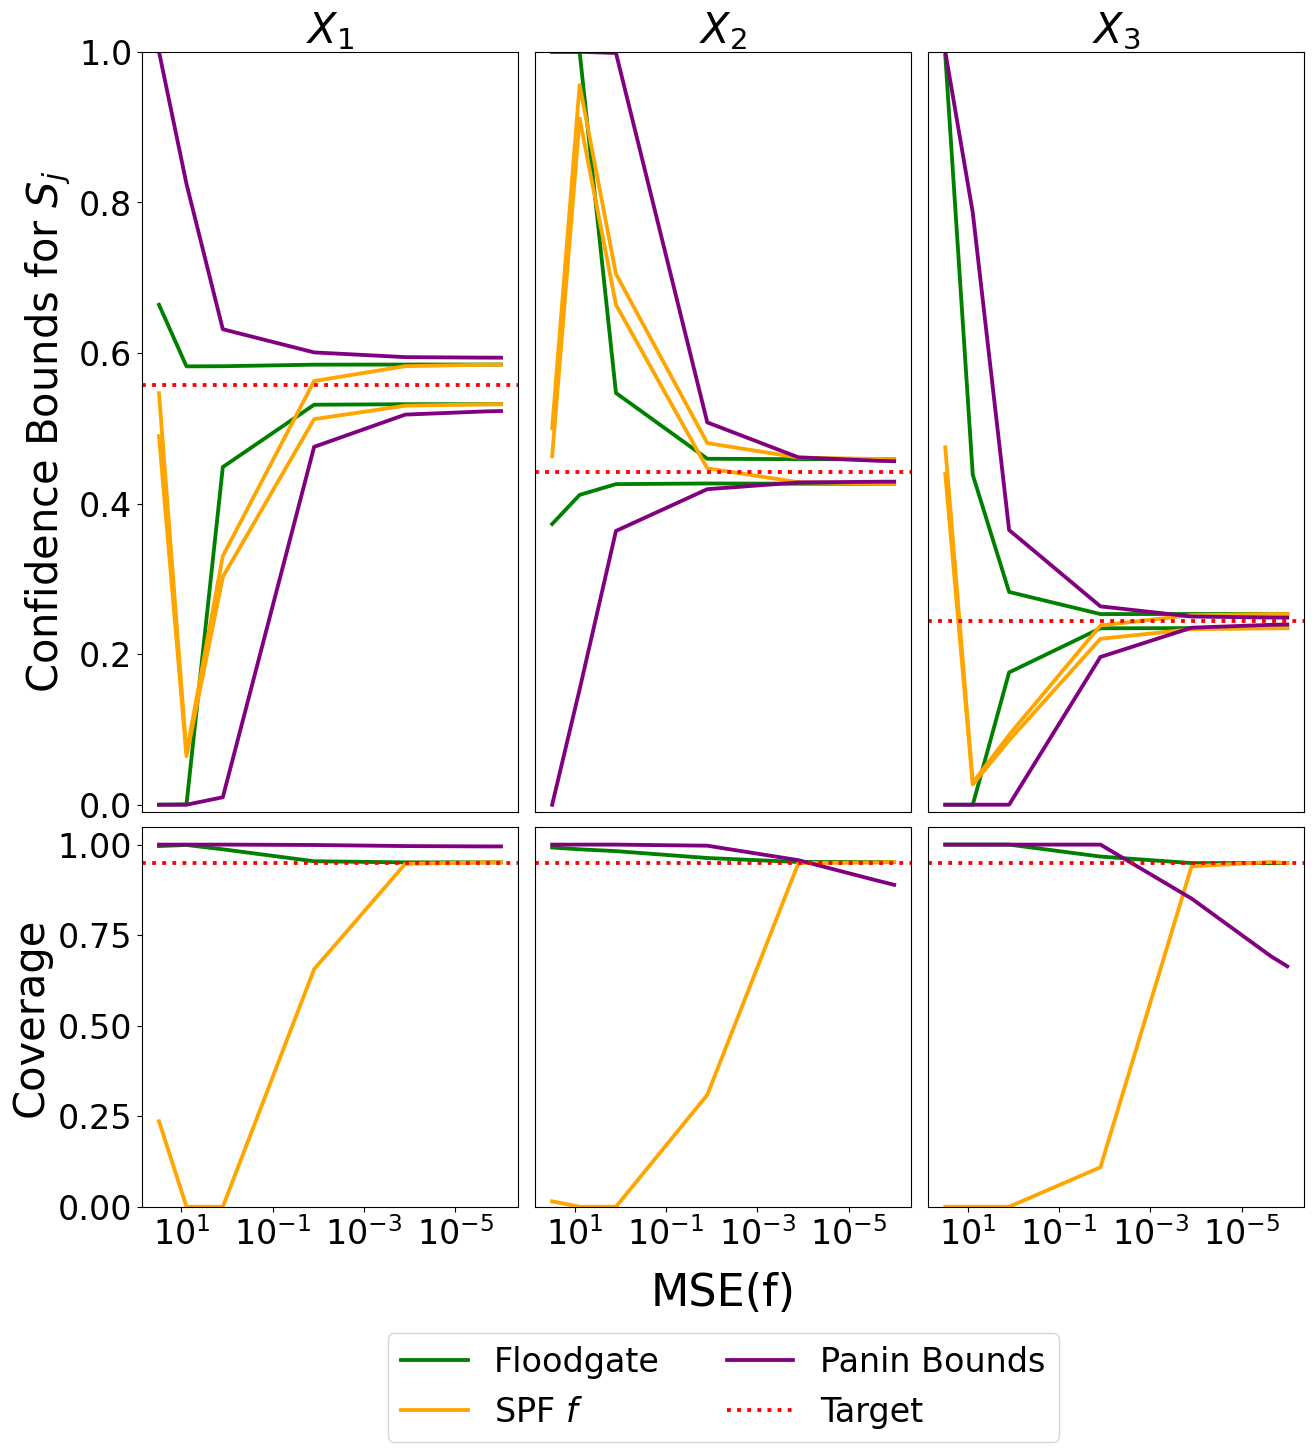
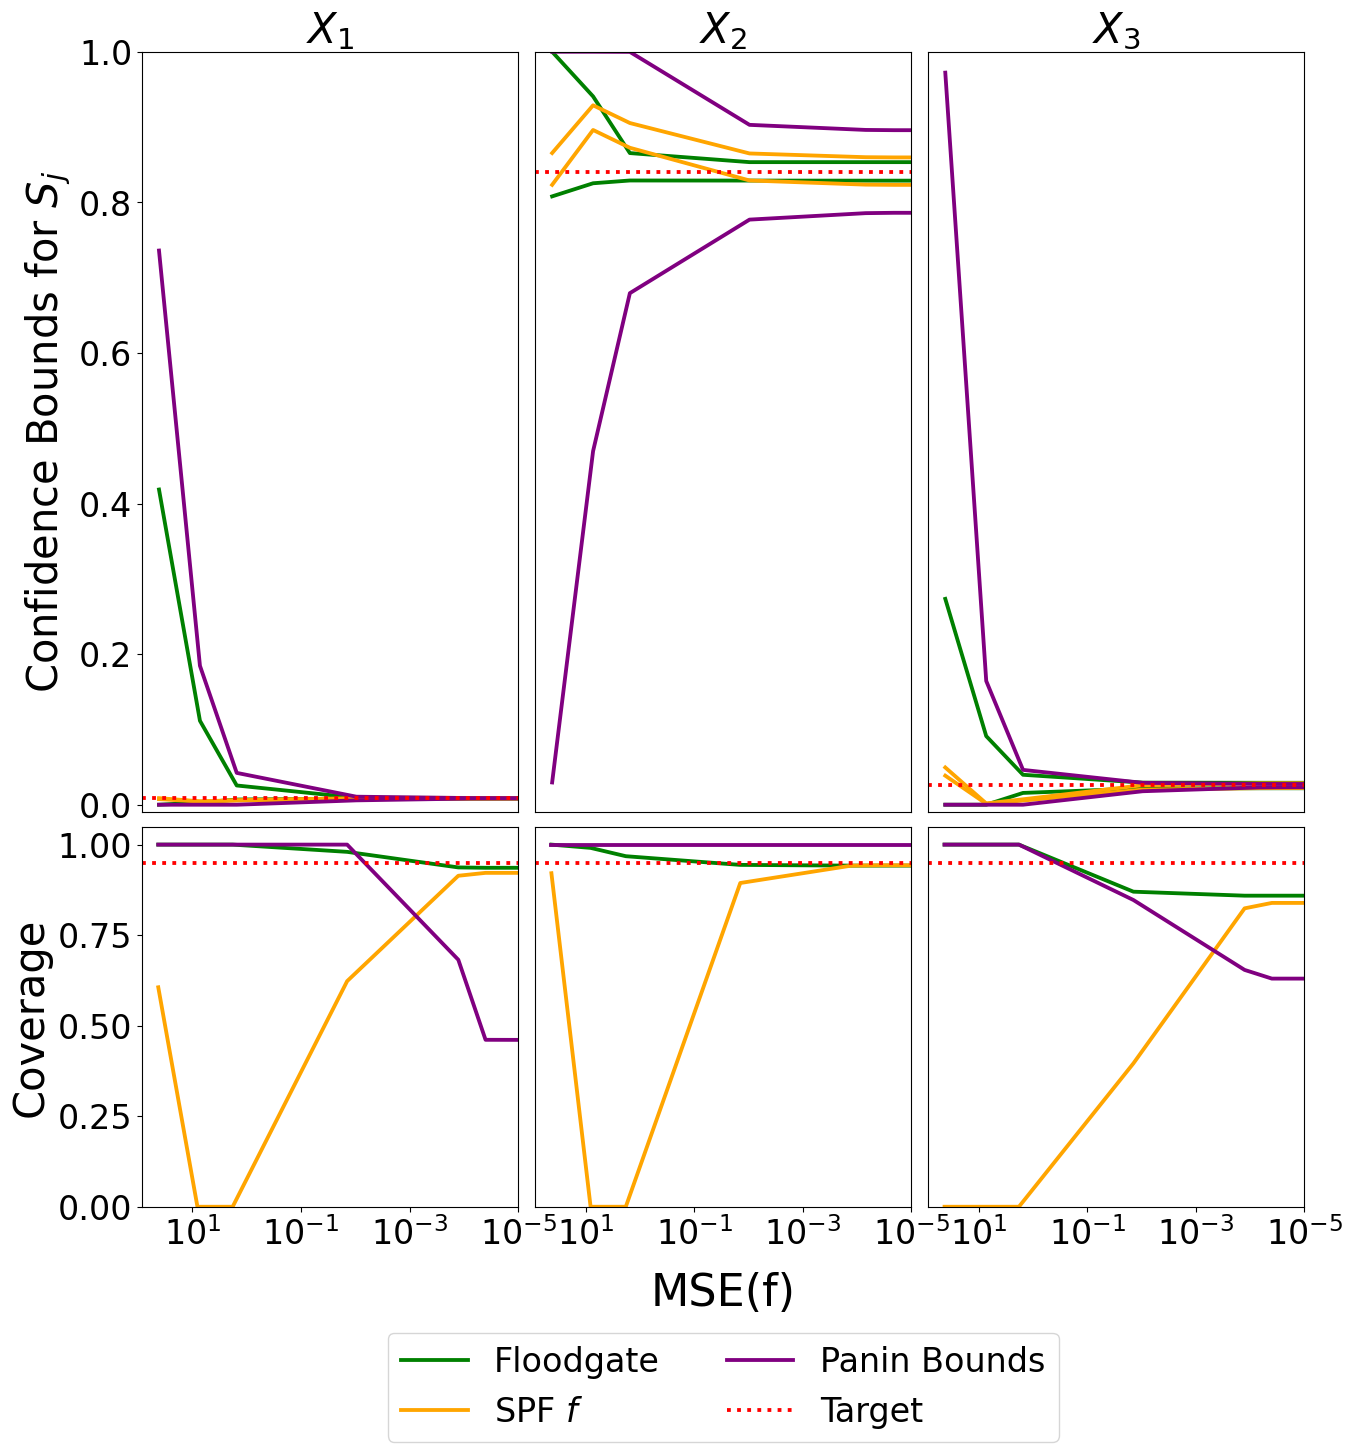
experiment with dependent inputs

diff --git a/ishigami/analysis/surrogate_methods.py b/ishigami/analysis/surrogate_methods.py
@@ -1,7 +1,6 @@
 import argparse
 import os
 from pathlib import Path
-from time import time
 
 import numpy as np
 
@@ -10,7 +9,7 @@ from src.surrogate import Ishigami
 
 from config import Random_seeds, Ishigami_inputs
 
-N = int(1e4)
+N = int(1e5)
 xmin = Ishigami_inputs["min"]
 xmax = Ishigami_inputs["max"]
 d = xmax.shape[0]
@@ -18,18 +17,29 @@ d = xmax.shape[0]
 DATA_DIR = Path(__file__).parents[1] / "data"
 OUTPUT_DIR = DATA_DIR / "analysis"
 
+mu = np.array([0, 0, 0])
+Sigma = np.array([[1, 0.3, 0.8], [0.3, 1, 0.5], [0.8, 0.5, 1]])
 
-def analytical_mse(a, b, c):
-    a_diff = a - 1
-    b_diff = b - 7
-    c_diff = c - 0.1
-    unnormalized = (
-        4 * (a_diff ** 2) * (np.pi ** 3) +
-        (4 / 9) * (c_diff ** 2) * (np.pi ** 11) +
-        (8 / 5) * a_diff * c_diff * (np.pi ** 7) +
-        3 * (b_diff ** 2) * (np.pi ** 3)
-    )
-    return unnormalized / ((2 * np.pi) ** 3)
+
+def _create_input_sample(n):
+    return np.random.multivariate_normal(mu, Sigma, n)
+
+
+def analytical_mse(fstar, f):
+    # a_diff = a - 1
+    # b_diff = b - 7
+    # c_diff = c - 0.1
+    # unnormalized = (
+    #     4 * (a_diff ** 2) * (np.pi ** 3) +
+    #     (4 / 9) * (c_diff ** 2) * (np.pi ** 11) +
+    #     (8 / 5) * a_diff * c_diff * (np.pi ** 7) +
+    #     3 * (b_diff ** 2) * (np.pi ** 3)
+    # )
+    # return unnormalized / ((2 * np.pi) ** 3)
+    X = _create_input_sample(10000)
+    y = fstar.predict(X)
+    y_hat = f.predict(X)
+    return np.mean((y - y_hat) ** 2)
 
 
 if __name__ == "__main__":
@@ -60,9 +70,12 @@ if __name__ == "__main__":
     fstar = Ishigami()
     f = Ishigami(1 + noise, 7 + 2 * noise, 0.1 - 0.5 * noise)
 
-    print(f"MSE: {analytical_mse(f.a, f.b, f.c):.5f}")
+    print(f"noise: {noise}, MSE: {analytical_mse(fstar, f):.5f}")
 
     for i in range(1000):
+        if i % 100 == 0:
+            print(f"noise: {noise}, iteration: {i}")
+
         data_path = DATA_DIR / "outputs" / f"{i}.npy"
         os.makedirs(data_path.parent, exist_ok=True)
         if os.path.exists(data_path):
@@ -71,8 +84,7 @@ if __name__ == "__main__":
             y = data[:, -1]
         else:
             np.random.seed(Random_seeds["Ishigami_inputs"] + i)
-            X = np.random.rand(N, d) @ np.diag(xmax - xmin) + np.ones((N, d)) @ np.diag(xmin)
-            t1 = time()
+            X = _create_input_sample(N)
             y = fstar.predict(X)
 
             if args.save_data:
@@ -80,9 +92,8 @@ if __name__ == "__main__":
 
         np.random.seed(Random_seeds["Ishigami_analysis"] + i)
 
-        t1 = time()
         floodgate_results, spf_results, panin_results = combined_surrogate_methods(
-            X, f, xmin, xmax, Y=y, K=1
+            X, f, mu, Sigma, Y=y, K=100
         )
 
         np.save(FLOODGATE_OUTPUT_DIR / f"{i}.npy", np.array(floodgate_results))

diff --git a/plotting_scripts/Ishigami.py b/plotting_scripts/Ishigami.py
@@ -5,6 +5,8 @@ from matplotlib import pyplot as plt
 import os
 
 from ishigami.analysis.surrogate_methods import analytical_mse
+from src.analytical import S1, S2, S3, VAR_F
+from src.surrogate import Ishigami
 
 FIG_DIR = Path(__file__).parents[1] / "figs"
 DATA_DIR = Path(__file__).parents[1] / "ishigami" / "data" / "analysis"
@@ -13,7 +15,7 @@ if not os.path.exists(FIG_DIR):
     os.mkdir(FIG_DIR)
 
 d = 3
-gt = np.array([0.5574, 0.4424, 0.2436])
+gt = np.array([S1, S2, S3])
 
 
 # Plot formatting
@@ -40,28 +42,7 @@ floodgate = []
 panin = []
 spf_surrogate = []
 
-noise_vals = ["0.5", "0.25", "0.1", "0.01", "0.001", "0.0001", "0.0"]
-
-# Floodgate
-for s in noise_vals:
-    data_dir = DATA_DIR / "floodgate" / s
-    floodgate.append(
-        [np.load(data_dir / fp) for fp in os.listdir(data_dir)]
-    )
-floodgate = np.array(floodgate)
-floodgate_mean = np.mean(floodgate, axis=1)
-floodgate_cov = np.mean((floodgate[:,:,:,0] < gt) * (floodgate[:,:,:,1] > gt), axis=1)
-
-
-mse_vals = [
-    analytical_mse(1 + float(n), 7 + 2 * float(n), 0.1 - 0.5 * float(n)) + 1e-6 for n in noise_vals
-]
-
-for i in range(d):
-    ax[0,i].plot(mse_vals, floodgate_mean[:,i,0], color="green", ls="-", lw=lw, label="Floodgate")
-    ax[0,i].plot(mse_vals, floodgate_mean[:,i,1], color="green", ls="-", lw=lw)
-    ax[1,i].plot(mse_vals, floodgate_cov[:,i], color="green", ls="-", lw=lw)
-
+noise_vals = ["0.5", "0.25", "0.1", "0.01", "0.001", "0.0005", "0.0"]
 
 # Surrogate SPF
 for s in noise_vals:
@@ -72,6 +53,35 @@ for s in noise_vals:
 spf_surrogate = np.array(spf_surrogate)
 spf_surrogate_mean = np.mean(spf_surrogate, axis=1)
 spf_surrogate_cov = np.mean((spf_surrogate[:,:,:,0] < gt) * (spf_surrogate[:,:,:,1] > gt), axis=1)
+
+# Floodgate
+for s in noise_vals:
+    data_dir = DATA_DIR / "floodgate" / s
+    floodgate.append(
+        [np.load(data_dir / fp) for fp in os.listdir(data_dir)]
+    )
+
+floodgate = np.array(floodgate)
+floodgate_mean = np.mean(floodgate, axis=1)
+floodgate_cov = np.mean((floodgate[:,:,:,0] < gt) * (floodgate[:,:,:,1] > gt), axis=1)
+# print(np.mean(floodgate[:,:,:,0] < gt, axis=1))
+# print(np.mean(floodgate[:,:,:,1] > gt, axis=1))
+
+mse_vals = []
+for n in noise_vals:
+    noise = float(n)
+    fstar = Ishigami()
+    f = Ishigami(1 + noise, 7 + 2 * noise, 0.1 - 0.5 * noise)
+    mse_vals.append(analytical_mse(fstar, f))
+
+
+for i in range(d):
+    ax[0,i].plot(mse_vals, floodgate_mean[:,i,0], color="green", ls="-", lw=lw, label="Floodgate")
+    ax[0,i].plot(mse_vals, floodgate_mean[:,i,1], color="green", ls="-", lw=lw)
+    ax[1,i].plot(mse_vals, floodgate_cov[:,i], color="green", ls="-", lw=lw)
+
+
+
 
 for i in range(d):
     ax[0,i].plot(mse_vals, spf_surrogate_mean[:,i,0], color="orange", ls="-", lw=lw, label="SPF $f$")

diff --git a/src/sensitivity.py b/src/sensitivity.py
@@ -1,8 +1,9 @@
 import numpy as np
 from scipy.stats import norm
-from src.util import get_knockoffs
+from src.util import get_knockoffs_normal
 
-def floodgate(inputs, f, xmin, xmax, K=50, alpha=0.05, batch_size=1, fstar=None, Y=None, ind=None):
+
+def floodgate(inputs, f, mu, Sigma, K=50, alpha=0.05, batch_size=1, fstar=None, Y=None, ind=None):
     if fstar is None and Y is None:
         raise ValueError("Must provide either fstar of a set of evaluations from it.")
     elif Y is None:
@@ -37,7 +38,7 @@ def floodgate(inputs, f, xmin, xmax, K=50, alpha=0.05, batch_size=1, fstar=None,
     V_bar = np.mean(V)
     
     for X_ind in ind:
-        knockoffs = get_knockoffs(inputs, X_ind, xmin, xmax, K)
+        knockoffs = get_knockoffs_normal(inputs, X_ind, mu, Sigma, K)
         F = f.predict(knockoffs).reshape(n, K)
         F = np.mean(F, axis=1)
         
@@ -59,7 +60,7 @@ def floodgate(inputs, f, xmin, xmax, K=50, alpha=0.05, batch_size=1, fstar=None,
 
 
 
-def SPF(inputs, fstar, xmin, xmax, alpha=0.05, batch_size=1, Y=None, ind=None):
+def SPF(inputs, fstar, mu, Sigma, alpha=0.05, batch_size=1, Y=None, ind=None):
     if Y is None:
         Y = fstar.predict(inputs)
 
@@ -85,7 +86,7 @@ def SPF(inputs, fstar, xmin, xmax, alpha=0.05, batch_size=1, Y=None, ind=None):
 
     for X_ind in ind:
         # Get surrogate predictions for knockoffs
-        knockoffs = get_knockoffs(inputs, X_ind, xmin, xmax, 1)
+        knockoffs = get_knockoffs_normal(inputs, X_ind, mu, Sigma, 1)
         F = fstar.predict(knockoffs)
         
         # Bounds
@@ -190,7 +191,7 @@ def panin_bound(Mjf, Vf, M, V, z):
 
 
 
-def combined_surrogate_methods(inputs, f, xmin, xmax, K=50, alpha=0.05, batch_size=1, fstar=None, Y=None, ind=None):
+def combined_surrogate_methods(inputs, f, mu, Sigma, K=50, alpha=0.05, batch_size=1, fstar=None, Y=None, ind=None):
     if fstar is None and Y is None:
         raise ValueError("Must provide either fstar of a set of evaluations from it.")
     elif Y is None:
@@ -229,11 +230,11 @@ def combined_surrogate_methods(inputs, f, xmin, xmax, K=50, alpha=0.05, batch_si
     V_bar = np.mean(V)
     
     for X_ind in ind:
-        knockoffs = get_knockoffs(inputs, X_ind, xmin, xmax, K)
+        knockoffs = get_knockoffs_normal(inputs, X_ind, mu, Sigma, K)
         F = f.predict(knockoffs).reshape(n, K)
         F1 = F[:,0]
         F = np.mean(F, axis=1)
-        
+
         # Upper bound floodgate
         Mj = ((Y - F) ** 2) - ((Y_preds - F) ** 2 / (K + 1))
         Mj = np.mean(Mj.reshape(-1, batch_size), axis=1)

diff --git a/src/analytical.py b/src/analytical.py
@@ -1,0 +1,62 @@
+import numpy as np
+
+mu = np.array([0, 0, 0])
+a = 0.3
+b = 0.8
+c = 0.5
+
+alpha = 1
+beta = 7
+gamma = 0.1
+
+EXPECTATIONS = [
+    [0, 1, 0, 3, 0, 15, 0, 105],
+    [1, 0, 3, 0, 15, 0, 105],
+    [(1, 2), (0, 0), (3, 12), (0, 0), (15, 90)],
+    [(9, 6), (0, 0), (45, 60)],
+]
+
+def exp_poly(p1, p2, rho=a):
+    if p1 > p2:
+        p1, p2 = p2, p1
+
+    if p1 == 0:
+        return EXPECTATIONS[0][p2]
+    if p1 == 1:
+        return EXPECTATIONS[1][p2 - p1] * rho
+    if p1 == 2:
+        x, y = EXPECTATIONS[2][p2 - p1]
+        return x + y * rho**2
+    if p1 == 3:
+        x, y = EXPECTATIONS[3][p2 - p1]
+        return x * rho + y * rho**3
+    if p1 == 4:
+        return 9 + 72 * (rho**2) + 24 * (rho**4)
+
+    raise ValueError("Invalid input")
+
+
+VAR_F = alpha**2 + 2*beta**2 + (gamma**2)*(105 + 840*(b**2)) + 2*alpha*gamma*(3 + 12*(b**2))
+
+sig2_1 = (1 - (a**2 - 2*a*b*c + b**2) / (1 - c**2))
+D1 = (alpha**2 + 6*alpha*gamma + 105*(gamma**2)) * sig2_1
+
+sig2_2 = 1 - (a**2 - 2*a*b*c + c**2) / (1 - b**2)
+d = a - b * c
+e = c - a * b
+f = 1 / (1 - b**2)
+
+D2 = 4*(beta**2) * sig2_2 * (f**2) * (d**2 + e**2 + 2*d*e*b) + 2*(beta**2)*(sig2_2**2)
+
+sig2_3 = 1 - (b**2 - 2*a*b*c + c**2) / (1 - a**2)
+f = 1 / (1 - a**2)
+d = b - a * c
+e = c - a * b
+Ex2mu6 = (f**6) * (105*(d**6) + 6*(d**5)*e*exp_poly(7, 1) + 15*(d**4)*(e**2)*exp_poly(6, 2) + 20*(d**3)*(e**3)*exp_poly(5, 3) + 15*(d**2)*(e**4)*exp_poly(4, 4) + 6*d*(e**5)*exp_poly(3, 5) + (e**6)*exp_poly(2, 6))
+Ex2mu4 = (f**4) * (15*(d**4) + 4*(d**3)*e*exp_poly(5, 1) + 6*(d**2)*(e**2)*exp_poly(4, 2) + 4*d*(e**3)*exp_poly(3, 3) + (e**4)*exp_poly(2, 4))
+Ex2mu2 = (f**2) * (3*(d**2) + 18*a*d*e + (e**2)*exp_poly(2, 2))
+D3 = (gamma**2) * (16*Ex2mu6*sig2_3 + 168*Ex2mu4*(sig2_3**2) + 384*Ex2mu2*(sig2_3**3) + 96*(sig2_3**4))
+
+S1 = D1/VAR_F
+S2 = D2/VAR_F
+S3 = D3/VAR_F

diff --git a/src/util.py b/src/util.py
@@ -14,10 +14,34 @@ def get_knockoffs(inputs, X_ind, xmin, xmax, K):
     knockoffs = np.zeros(((n*K), d))
     knockoffs[:,X_ind] = np.random.rand(n*K) * (xmax[X_ind] - xmin[X_ind]) + xmin[X_ind]
     for i in range(n):
-        knockoffs[(i*K):((i+1)*K),Z_ind] = X[i, Z_ind]
+        knockoffs[(i*K):((i+1)*K), Z_ind] = X[i, Z_ind]
     if isinstance(inputs, tuple):
         for i in range(n):
             met_new[(i*K):((i+1)*K),:] = met[i,:,:]
         knockoffs = (knockoffs, met_new)
 
+    return knockoffs
+
+
+def conditional_sample(mu, Sigma, inputs, X_ind):
+    n, d = inputs.shape
+    ind = list(np.arange(d))
+    Z_ind = ind[:X_ind] + ind[(X_ind+1):]
+    mu_cond = mu[X_ind] + Sigma[[X_ind]][:, Z_ind] @ np.linalg.inv(Sigma[Z_ind][:,Z_ind]) @ (inputs[:, Z_ind] - mu[[Z_ind]]).T
+    mu_cond = mu_cond.flatten()
+    Sigma_cond = Sigma[X_ind, X_ind] - (Sigma[[X_ind]][:, Z_ind] @ np.linalg.inv(Sigma[Z_ind][:,Z_ind]) @ Sigma[Z_ind][:, [X_ind]])
+    sigma_cond = np.sqrt(Sigma_cond.item())
+    return np.random.normal(mu_cond, sigma_cond, n)
+
+
+def get_knockoffs_normal(inputs, X_ind, mu, Sigma, K):
+    n, d = inputs.shape
+    ind = list(np.arange(d))
+    Z_ind = ind[:X_ind] + ind[(X_ind+1):]
+
+    knockoffs = np.zeros(((n*K), d))
+    for i in range(n):
+        knockoffs[(i*K):((i+1)*K), Z_ind] = inputs[i, Z_ind]
+
+    knockoffs[:, X_ind] = conditional_sample(mu, Sigma, knockoffs, X_ind)
     return knockoffs

diff --git a/src/surrogate.py b/src/surrogate.py
@@ -82,9 +82,9 @@ class Ishigami(Surrogate):
 
     def predict(self, X):
         return (
-            self.a * np.sin(X[:,0]) +
-            self.b * np.sin(X[:,1])**2 +
-            self.c * X[:,2]**4 * np.sin(X[:,0])
+            self.a * X[:, 0] +
+            self.b * (X[:, 1]**2) +
+            self.c * (X[:, 2]**4) * X[:, 0]
         )
 
 
